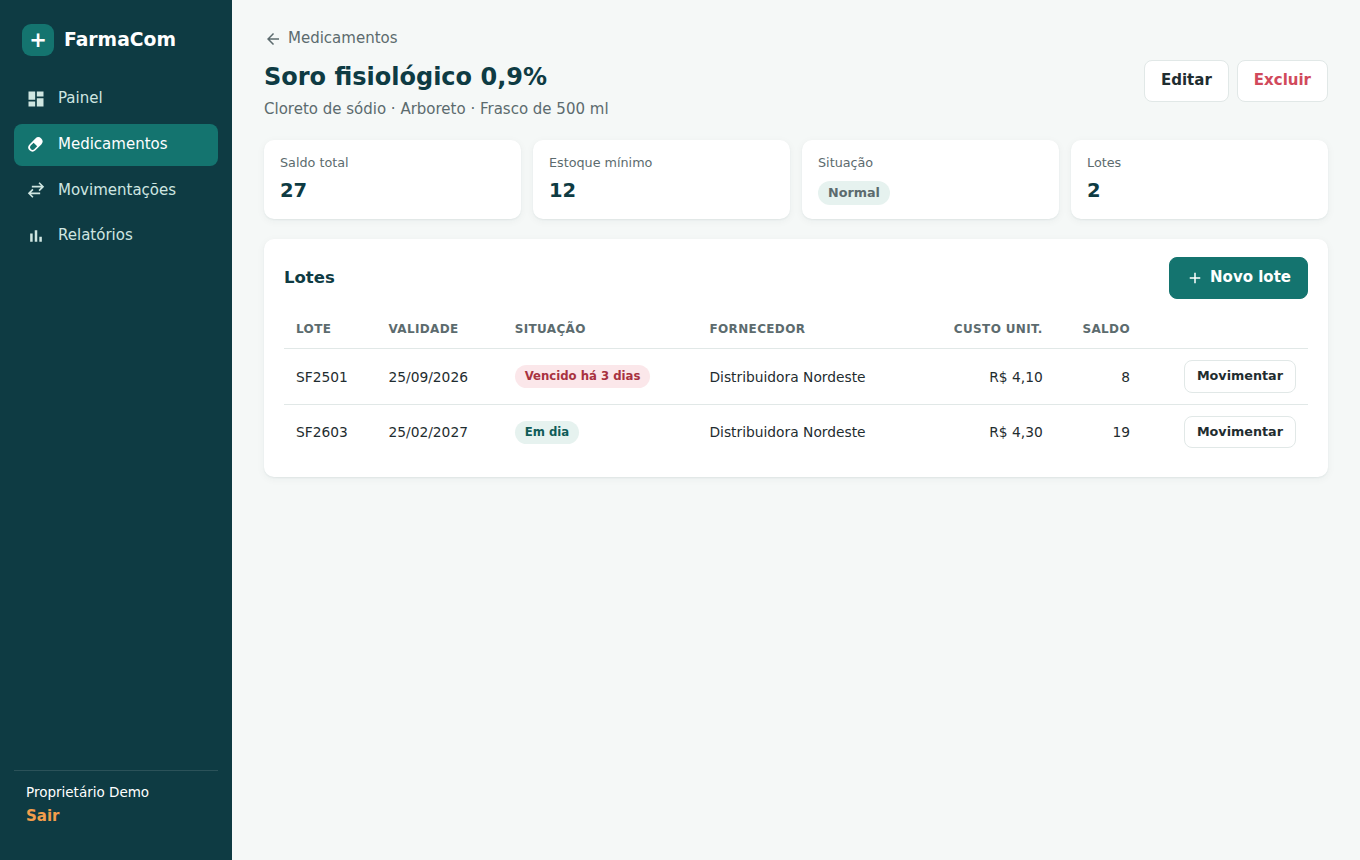
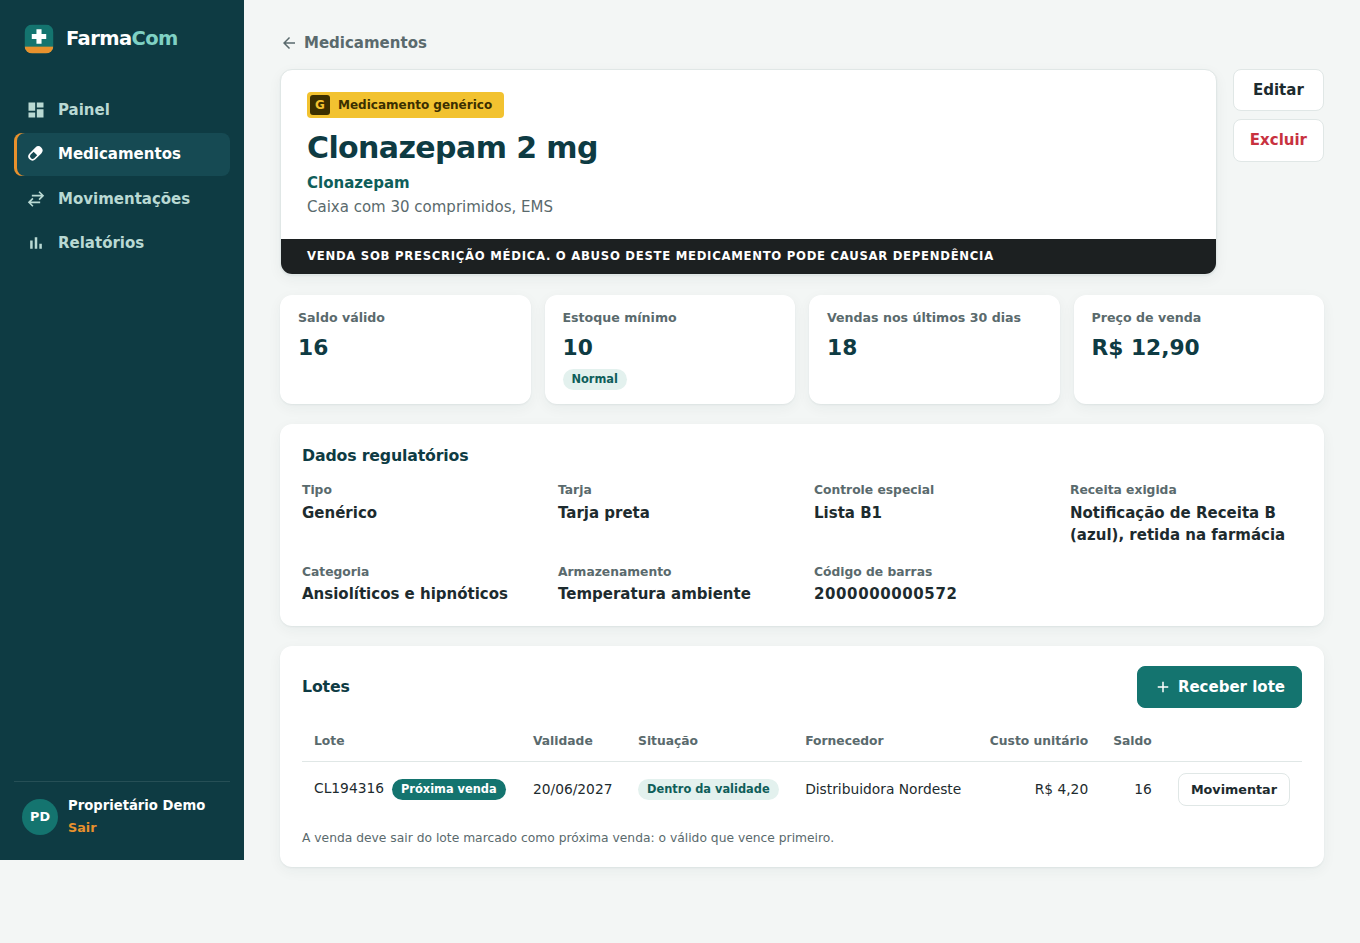
Documenta a pesquisa de referência e atualiza README e Sprints

diff --git a/README.md b/README.md
@@ -6,18 +6,25 @@ Projeto do **Desafio Unifacisa**, curso de Análise e Desenvolvimento de Sistema
 
 ![Painel do FarmaCom](docs/telas/painel.png)
 
-## Funcionalidades do MVP
+## Funcionalidades
 
-- **Cadastro de medicamentos e lotes**: nome, princípio ativo, fabricante, apresentação, estoque mínimo; cada lote com código, validade, fornecedor e custo unitário.
-- **Entradas e saídas**: registro de entradas, vendas e baixas (por vencimento ou avaria), com saldo por lote e por medicamento.
-- **Alertas de validade e de estoque**: painel com lotes vencidos e a vencer em 30, 60 ou 90 dias, medicamentos abaixo do mínimo e valor em risco.
-- **Relatórios**: perdas por vencimento e avaria (em quantidade e em reais) e movimentação por medicamento, com exportação para planilha.
-- **Regras de negócio protegidas no servidor**: não é possível vender mais que o saldo nem vender lote vencido (só dar baixa).
+- **Catálogo com dados regulatórios**: 77 medicamentos comuns no Brasil na demonstração, com categoria, tipo (referência, genérico, similar), tarja, lista de controle especial (Portaria 344/98 e antimicrobianos), código de barras EAN-13, preço e indicação de armazenamento refrigerado.
+- **Lotes e validade**: cada lote tem validade, fornecedor, custo e saldo próprios.
+- **Venda pelo lote que vence primeiro (FEFO)**: o sistema sugere o lote e avisa quando outro é escolhido. Lote vencido não pode ser vendido, só baixado.
+- **Receita retida para controlados e antimicrobianos**: a saída exige data da receita, prescritor, registro profissional e paciente; lista B1 exige o número da notificação; receita de antimicrobiano vale 10 dias.
+- **Painel**: valor do estoque, vencimentos dos próximos 6 meses em gráfico, lotes vencidos e a vencer (30, 60 ou 90 dias) e sugestão de compra.
+- **Relatórios**: perdas por vencimento e avaria, movimentação, curva ABC e livro de controlados (base para o SNGPC), todos com exportação para planilha.
 - **Login** com usuário e senha.
 
-| Medicamento e lotes | Relatórios |
+As escolhas foram baseadas em uma pesquisa sobre sistemas de farmácia do mercado e sobre a regulação brasileira: veja [docs/pesquisa.md](docs/pesquisa.md).
+
+| Medicamentos | Medicamento de tarja preta |
 |---|---|
-| ![Detalhe do medicamento](docs/telas/medicamento.png) | ![Relatórios](docs/telas/relatorios.png) |
+| ![Lista de medicamentos](docs/telas/medicamentos.png) | ![Detalhe do medicamento](docs/telas/medicamento.png) |
+
+| Receita retida na venda | Curva ABC |
+|---|---|
+| ![Venda de controlado](docs/telas/receita.png) | ![Relatórios](docs/telas/relatorios.png) |
 
 ## Tecnologias
 
@@ -76,7 +83,7 @@ cd server
 npm test
 ```
 
-Os testes usam o banco `farmacom_test` e cobrem login, validação de campos, cálculo de saldo, valores limite (saída igual ou maior que o saldo, alerta no último dia do prazo), bloqueio de venda de lote vencido e cálculo de perdas. Para rodá-los automaticamente no GitHub a cada envio de código, ative a integração contínua: no site do GitHub, crie o arquivo `.github/workflows/ci.yml` com o conteúdo de [`docs/ci.yml`](docs/ci.yml).
+Os testes usam o banco `farmacom_test` e cobrem login, validação de campos e do código de barras, cálculo de saldo, valores limite (saída igual ou maior que o saldo, alerta no último dia do prazo, receita de antimicrobiano com 10 e 11 dias), bloqueio de venda de lote vencido, receita obrigatória para controlados, sugestão de lote por validade, curva ABC e cálculo de perdas. Para rodá-los automaticamente no GitHub a cada envio de código, ative a integração contínua: no site do GitHub, crie o arquivo `.github/workflows/ci.yml` com o conteúdo de [`docs/ci.yml`](docs/ci.yml).
 
 ## Estrutura
 
@@ -107,19 +114,22 @@ Todas, exceto login e saúde, exigem o cabeçalho `Authorization: Bearer <token>
 |---|---|---|
 | POST | `/api/auth/login` | Login; devolve o token |
 | GET | `/api/auth/eu` | Usuário logado |
-| GET | `/api/medicamentos?busca=` | Lista com saldo e próxima validade |
+| GET | `/api/catalogo` | Categorias, tipos, tarjas e listas de controle |
+| GET | `/api/medicamentos?busca=&categoria=&tarja=&controlado=&situacao=` | Lista com saldo, próxima validade e filtros |
 | POST | `/api/medicamentos` | Cadastra medicamento |
-| GET | `/api/medicamentos/:id` | Detalhe com lotes e saldos |
+| GET | `/api/medicamentos/:id` | Detalhe com lotes, saldos e lote sugerido para venda |
 | PUT | `/api/medicamentos/:id` | Edita medicamento |
 | DELETE | `/api/medicamentos/:id` | Exclui (só sem saídas ou baixas) |
 | POST | `/api/medicamentos/:id/lotes` | Cadastra lote e entrada inicial |
 | GET | `/api/lotes?medicamento_id=` | Lotes com saldo |
 | PUT | `/api/lotes/:id` | Edita lote |
-| GET | `/api/movimentacoes?limite=` | Últimas movimentações |
-| POST | `/api/movimentacoes` | Registra entrada, saída ou baixa |
-| GET | `/api/alertas?dias=` | Alertas de validade e de estoque baixo |
+| GET | `/api/movimentacoes?limite=&tipo=` | Últimas movimentações |
+| POST | `/api/movimentacoes` | Registra entrada, saída ou baixa (com receita para controlados) |
+| GET | `/api/alertas?dias=` | Painel: validade, sugestão de compra e vencimentos por mês |
 | GET | `/api/relatorios/perdas?inicio=&fim=` | Perdas no período |
 | GET | `/api/relatorios/movimentacao?inicio=&fim=` | Movimentação no período |
+| GET | `/api/relatorios/curva-abc?inicio=&fim=` | Curva ABC por faturamento |
+| GET | `/api/relatorios/controlados?inicio=&fim=` | Livro de controlados |
 | GET | `/api/saude` | Verificação de funcionamento |
 
 ## Publicação na internet

diff --git a/docs/pesquisa.md b/docs/pesquisa.md
@@ -1,0 +1,56 @@
+# Pesquisa de referência
+
+Levantamento feito para orientar as funcionalidades do FarmaCom: como funcionam os sistemas de gestão de farmácias do mercado e quais regras brasileiras afetam o controle de estoque de medicamentos.
+
+## 1. O que os sistemas de farmácia do mercado oferecem
+
+Sistemas como Trier, Vetor Farma, Inovafarma e Automatiza trazem, entre outras, estas funções ligadas a estoque:
+
+| Funcionalidade no mercado | Como ficou no FarmaCom |
+|---|---|
+| Controle por lote e validade em todos os produtos | Cada medicamento tem lotes com validade, custo e saldo próprios |
+| Organizar a saída pela validade: o que vence primeiro sai primeiro (FEFO) | A tela de movimentação sugere o lote válido que vence primeiro e avisa quando outro lote é escolhido |
+| Bloqueio de venda de produto vencido | O servidor recusa venda de lote vencido e orienta a registrar baixa |
+| Campos para a receita (prescritor, data, quantidade) e separação dos controlados | Saída de controlado ou antimicrobiano exige data da receita, prescritor, registro profissional e paciente |
+| Livro de registro de controlados e envio ao SNGPC | Relatório "Livro de controlados" com todas as saídas e dados da receita, exportável em planilha |
+| Estoque mínimo com sugestão automática de compra | Painel com sugestão de compra: 30 dias de vendas mais o estoque mínimo, menos o saldo válido |
+| Curva ABC por faturamento | Relatório de curva ABC (A até 80% do faturamento, B até 95%, C o restante) |
+| Lançamento de perdas | Baixa por vencimento e por avaria, com relatório de perdas em reais |
+| Leitura de código de barras | Campo EAN-13 com validação do dígito verificador e busca por código |
+| Controle de medicamentos termolábeis | Marcação de medicamento refrigerado (2 °C a 8 °C) |
+
+Ficaram para as próximas Sprints: entrada automática pela nota fiscal (XML da NF-e), integração com o PDV e emissão de NFC-e, tabelas de preço (PMC, PBM), inventário e envio real do arquivo ao SNGPC.
+
+## 2. Regras brasileiras aplicadas
+
+**Tarjas.** Sem tarja: medicamento isento de prescrição. Tarja vermelha: venda sob prescrição, com ou sem retenção da receita. Tarja preta: controle mais rígido, com receita retida. A faixa amarela com a letra G identifica o medicamento genérico. O FarmaCom mostra a tarja de cada medicamento como uma faixa colorida na lista e reproduz a frase obrigatória da embalagem na tela do medicamento.
+
+**Tipos de medicamento.** Referência, genérico e similar (Lei 9.787/1999).
+
+**Controle especial.** A Portaria SVS/MS 344/1998 divide as substâncias em listas. Exemplos usados no catálogo de demonstração:
+
+| Lista | Exemplos | Receita |
+|---|---|---|
+| B1 (psicotrópicos) | clonazepam, alprazolam, diazepam, zolpidem | Notificação de Receita B (azul), retida |
+| C1 (controle especial) | sertralina, fluoxetina, escitalopram, amitriptilina, carbamazepina, quetiapina | Receita de Controle Especial em 2 vias, retida |
+
+**Antimicrobianos.** Amoxicilina, azitromicina, cefalexina e outros antibióticos exigem receita em duas vias, com retenção, válida por 10 dias a partir da emissão. O FarmaCom recusa a venda com receita de antimicrobiano mais antiga que isso.
+
+**SNGPC.** O Sistema Nacional de Gerenciamento de Produtos Controlados, da Anvisa, recebe as movimentações de controlados e antimicrobianos das farmácias. O livro de controlados do FarmaCom reúne os dados que a escrituração exige.
+
+## 3. Medicamentos do catálogo de demonstração
+
+O catálogo tem 77 medicamentos comuns no varejo brasileiro, em 19 categorias. A escolha partiu dos rankings de vendas: losartana, dipirona, hidroclorotiazida, tadalafila, nimesulida, simeticona, enalapril, sinvastatina, atenolol e anlodipino lideraram as vendas de genéricos no início de 2025, e a metformina de liberação prolongada foi a marca mais vendida.
+
+Nomes, princípios ativos, tarjas e controles seguem a regulação. Fabricantes, preços, lotes e códigos de barras são ilustrativos: os códigos usam o prefixo 200, reservado para uso interno, para não coincidir com produtos reais.
+
+## Fontes
+
+- [CFF: medicamentos para diabetes e hipertensão dominam ranking de vendas em 2025](https://site.cff.org.br/noticia/Noticias-gerais/23/06/2025/medicamentos-para-diabetes-e-hipertensao-dominam-ranking-de-vendas-no-brasil-em-2025)
+- [Inovafarma: 100 medicamentos mais vendidos em farmácia](https://www.inovafarma.com.br/blog/medicamentos-mais-vendidos-em-farmacias/)
+- [Ministério da Saúde (BVS): significado das tarjas nas embalagens](https://bvsms.saude.gov.br/entenda-o-significado-das-tarjas-coloridas-nas-embalagens-dos-remedios/)
+- [Hospital Sírio-Libanês: resumo da Portaria 344/98](https://guiafarmaceutico.hsl.org.br/informacoes-de-apoio/prescricao-de-medicamentos-sujeitos-a-controle-especial/medicamentos-controlados-resumo-portaria-344-98)
+- [PharmaOne: SNGPC em 2026](https://pharmaone.com.br/blog/sngpc-voltou-novidades)
+- [Gálago: funcionalidades essenciais de um sistema para farmácia](https://galago.com.br/blog/sistema-para-farmacia.html)
+- [Automatiza: gestão de estoque para farmácia](https://automatizasistemas.com.br/solucoes-para-farmacias/sistema-farmacia-inteligente/gestao-estoque-farmacia/)
+- [Trier Sistemas](https://www.triersistemas.com.br/) e [Vetor Farma](https://vetorfarma.com.br/software-de-gestao-para-farmacias/)

diff --git a/docs/sprints.md b/docs/sprints.md
@@ -13,12 +13,14 @@ Linha do tempo em seis Sprints de duas semanas, conforme o Detalhamento do Proje
 
 ## O que o MVP já entrega
 
-- Cadastro, edição e exclusão de medicamentos
-- Cadastro de lotes com entrada inicial
-- Entradas, vendas e baixas com controle de saldo
-- Painel de alertas (validade em 30/60/90 dias e estoque baixo)
-- Relatórios de perdas e de movimentação, com exportação para planilha
-- Login, testes automatizados da API e integração contínua
+- Catálogo com 77 medicamentos e dados regulatórios (tarja, tipo, controle especial, EAN-13, refrigeração)
+- Cadastro, edição e exclusão de medicamentos, com filtros por categoria, tarja, controle e situação
+- Recebimento de lotes e movimentações com controle de saldo
+- Sugestão do lote que vence primeiro (FEFO) e bloqueio de venda de lote vencido
+- Receita obrigatória na venda de controlados e antimicrobianos
+- Painel com valor do estoque, gráfico de vencimentos, alertas e sugestão de compra
+- Relatórios de perdas, movimentação, curva ABC e livro de controlados, com exportação para planilha
+- Login, 21 testes automatizados da API e publicação no Render
 
 ## Tarefas para distribuir na Sprint 1 e 2
 
@@ -35,20 +37,22 @@ Cada integrante fica com tarefas ligadas à sua responsabilidade. Crie uma issue
 
 - [ ] Montar o quadro Kanban no GitHub Projects com as colunas e limites do Detalhamento (Pendências, Selecionado para a Sprint, Análise 2, Desenvolvimento 3, Teste 2, Homologação 3, Concluído)
 - [ ] Interface: formulário de edição de lote na tela do medicamento (a rota `PUT /api/lotes/:id` já existe)
-- [ ] Interface: filtro por tipo e por período na tela de movimentações
+- [ ] Interface: filtro por tipo na tela de movimentações (a API já aceita `GET /api/movimentacoes?tipo=saida`)
 - [ ] Conduzir a retrospectiva da Sprint 1 e registrar a melhoria escolhida
 
 ### João Guilherme: qualidade, banco de dados e publicação
 
 - [ ] Publicar o sistema no Render + Neon seguindo o README e colocar o link no topo do README
-- [ ] Testes: relatório de movimentação e exclusão de medicamento com e sem saídas
+- [ ] Testes: relatório de movimentação, livro de controlados e exclusão de medicamento com e sem saídas
 - [ ] Banco: índice e consulta para o histórico de movimentações de um lote
 - [ ] Escrever o roteiro dos testes de usabilidade (Sprint 5)
 
 ## Próximas funcionalidades (lista de pendências)
 
 - Cadastro de fornecedores como entidade própria
+- Entrada de lotes pela nota fiscal de compra (XML da NF-e)
+- Geração do arquivo para o SNGPC
 - Exportação de relatórios em PDF
 - Envio de alerta diário por e-mail ou WhatsApp
 - Perfis de acesso (proprietário e balconista)
-- Leitura de código de barras no cadastro de lotes
+- Leitura de código de barras pela câmera ou leitor no balcão
